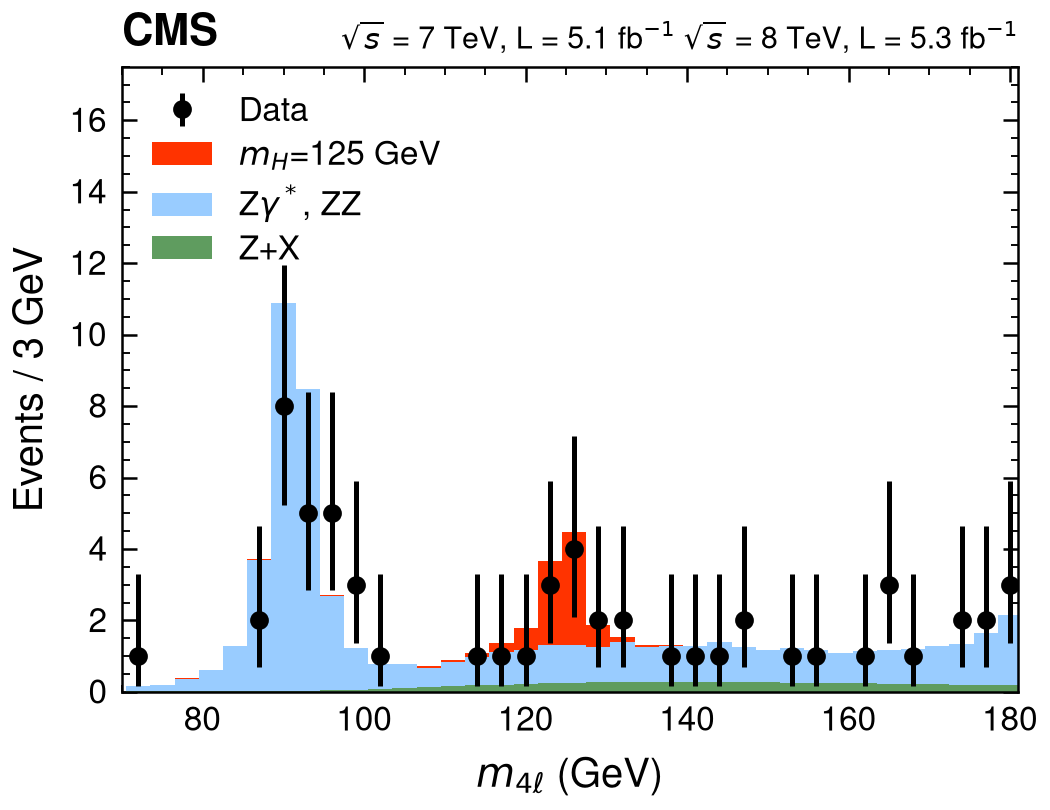
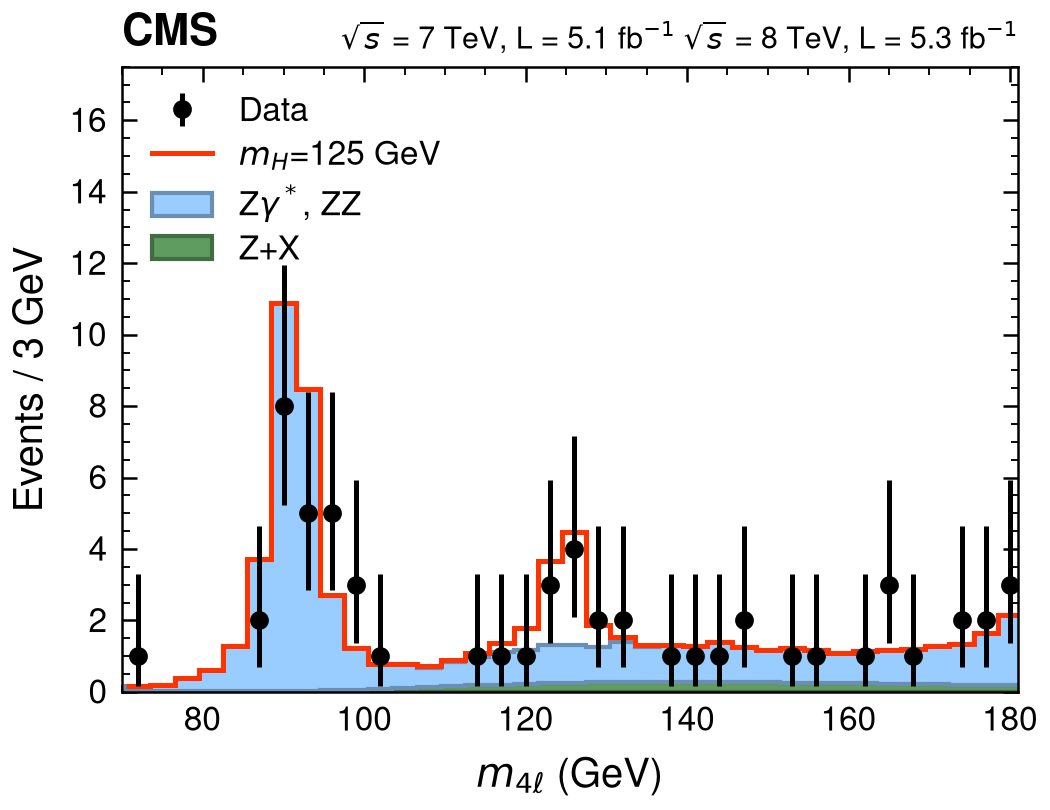
Famous upkeep: adopt T18/T19/T21 options, hide the new best-fit mark
- F03: Garwood bars from the counts (--errory_type poisson) and the
  signal as an open outline on the filled, edged stack
  (--series_type Signal=step --plot_type fill), as in the CMS figure.
- F10: --no_best_fit (the Riess figure has no best-fit point; round 3
  added one by default).
- F11: size classes as all-math labels (the paper font draws a text "<"
  as "¡", and panel titles are title-cased: "kpc" -> "Kpc").
- New gap lines for regressions in closed work: the column: lower panel
  lost the model curves in the example-feedback-3 merge (F01, F09);
  --legend_panel all collapses the GW150914 H1 panels and --title is not
  drawn (F15); line ignores --panel_title (F11).
- Gallery: F03 and F10 re-rendered; F08 now without error bars on the
  nebulae, like the original. F01 keeps its earlier image until the
  lower-panel curves are back.

diff --git a/examples/famous/galaxies.py b/examples/famous/galaxies.py
@@ -14,7 +14,7 @@ import models
 from _common import DATA
 
 SPARC = DATA / "sparc"
-SIZE_CLASSES = ((12.0, "$R_{max}$ < 12 kpc"), (35.0, "12-35 kpc"), (np.inf, "$R_{max}$ > 35 kpc"))
+SIZE_CLASSES = ((12.0, r"$R_{max} < 12\,\mathrm{kpc}$"), (35.0, r"$12 - 35\,\mathrm{kpc}$"), (np.inf, r"$R_{max} > 35\,\mathrm{kpc}$"))
 # SPARC's disk mass-to-light ratio at 3.6 microns (Lelli, McGaugh & Schombert 2016).
 DISK_ML = 0.5
 

diff --git a/examples/famous/README.md b/examples/famous/README.md
@@ -100,19 +100,19 @@ Patterns the commands use:
 
 | figure | source | data | status | missing (task) |
 |---|---|---|---|---|
-| F01 H→γγ m_γγ | ATLAS, PLB 716 (2012) 1, Fig. 4 | **extracted** (figure) | ◐ | (ATLAS header inside: `--experiment atlas --label_position inside`) 4 panels in one figure (T22.6); residual vs a fit component (T22.14) |
-| F03 H→ZZ*→4ℓ | CMS, PLB 716 (2012) 30, Fig. 4 | **extracted** (figure) | ◐ | (CMS header above: `--experiment cms`) Garwood bars computed from counts (T19; here the figure's bars); signal as an open outline on the stack (T18); inset (T22.7) |
+| F01 H→γγ m_γγ | ATLAS, PLB 716 (2012) 1, Fig. 4 | **extracted** (figure) | ◐ | (ATLAS header inside: `--experiment atlas --label_position inside`) 4 panels in one figure (T22.6); residual vs a fit component (T22.14); the Sig+Bkg − Bkg curve in the lower panel, drawn by T21 and lost in the example-feedback-3 merge (follow-up; the gallery image predates it) |
+| F03 H→ZZ*→4ℓ | CMS, PLB 716 (2012) 30, Fig. 4 | **extracted** (figure) | ◐ | (CMS header above: `--experiment cms`; Garwood bars from the counts: `--errory_type poisson`; the signal as an open outline on the filled stack: `--series_type Signal=step --plot_type fill`) inset (T22.7) |
 | F04 local p₀ | ATLAS, Fig. 9 | **extracted** (figure) | ◐ | (ATLAS header with two right lines) markers on the observed curve (T21); band legend swatch and σ-line labels (T20) |
 | F05 Brazil band | ATLAS, Fig. 7(a) | **extracted** (figure) | ◐ | (ATLAS header) saturated band colours and swatches (T20); log-axis tick labels (T12) |
 | F06 COBE FIRAS | Fixsen et al. 1996, Figs. 4-5 | **real** (NASA LAMBDA) | ✅ | (errors ×400 with `--error_scale 400`) a top axis in GHz (TODO.md, postponed) |
 | F08 Hubble 1929 | PNAS 15, 168, Fig. 1 | **real** (Table 1) | ◐ | per-series markers: discs, circles, cross (T21) |
-| F09 SN Ia Hubble diagram | Riess et al. 1998, Fig. 4 | **real** (Union2.1) | ◐ | log tick labels (T12) |
-| F10 Ω_M–Ω_Λ | Riess et al. 1998, Fig. 6 | **real** (Union2.1), synthetic CMB | ◐ | the shaded "No Big Bang" region (T22.8) |
-| F11 rotation curves | Rubin, Ford & Thonnard 1980 | **real** (SPARC) | ◐ | an ordered colour map for 21 hues (T22.5); figure layout unverified |
+| F09 SN Ia Hubble diagram | Riess et al. 1998, Fig. 4 | **real** (Union2.1) | ◐ | log tick labels (T12); the cosmologies' residual curves in the lower panel, lost in the example-feedback-3 merge (follow-up) |
+| F10 Ω_M–Ω_Λ | Riess et al. 1998, Fig. 6 | **real** (Union2.1), synthetic CMB | ◐ | (no best-fit marker, as in the original: `--no_best_fit`) the shaded "No Big Bang" region (T22.8) |
+| F11 rotation curves | Rubin, Ford & Thonnard 1980 | **real** (SPARC) | ◐ | an ordered colour map for 21 hues (T22.5); `--panel_title` on `line` panels (follow-up; the size classes are all-math labels so the title case leaves `kpc` alone) |
 | F12 NGC 3198 | van Albada et al. 1985 | **real** (SPARC); fitted halo | ✅ | (figure styles unverified) |
 | F13 Keeling curve | NOAA GML plot | **real** (NOAA GML) | ✅ | the seasonal-cycle inset of other versions (T22.7) |
 | F14 hockey stick | Mann, Bradley & Hughes 1999, Fig. 3(a) | **real** (NOAA paleo) | ✅ | — (the legend below the axes: `--legend_loc below`) |
-| F15 GW150914 | PRL 116, 061102, Fig. 1 | **real** (GWOSC); synthetic band widths | ◐ | 4 × 2 grid (T22.6); log frequency axis on the map (T22.3) (a legend per panel: `--legend_panel all`) |
+| F15 GW150914 | PRL 116, 061102, Fig. 1 | **real** (GWOSC); synthetic band widths | ◐ | 4 × 2 grid (T22.6); log frequency axis on the map (T22.3); `--legend_panel all` collapses the H1 panels and `--title` is not drawn (T15 follow-up) |
 | F16 KamLAND L₀/E | PRL 100, 221803, Fig. 3 | **extracted** (figure) | ◐ | x error bars from the bin widths (T21) |
 | F17 LEP Z lineshape | Phys. Rept. 427 (2006) 257, Fig. 1.13 | **extracted** (figure) | ✅ | (errors ×10 with `--error_scale 10`) labels on curves are `--text` (T22.8) |
 | F19 Geiger–Marsden | Phil. Mag. 25, 604 (1913) | synthetic | ✅ | (no original figure) |
